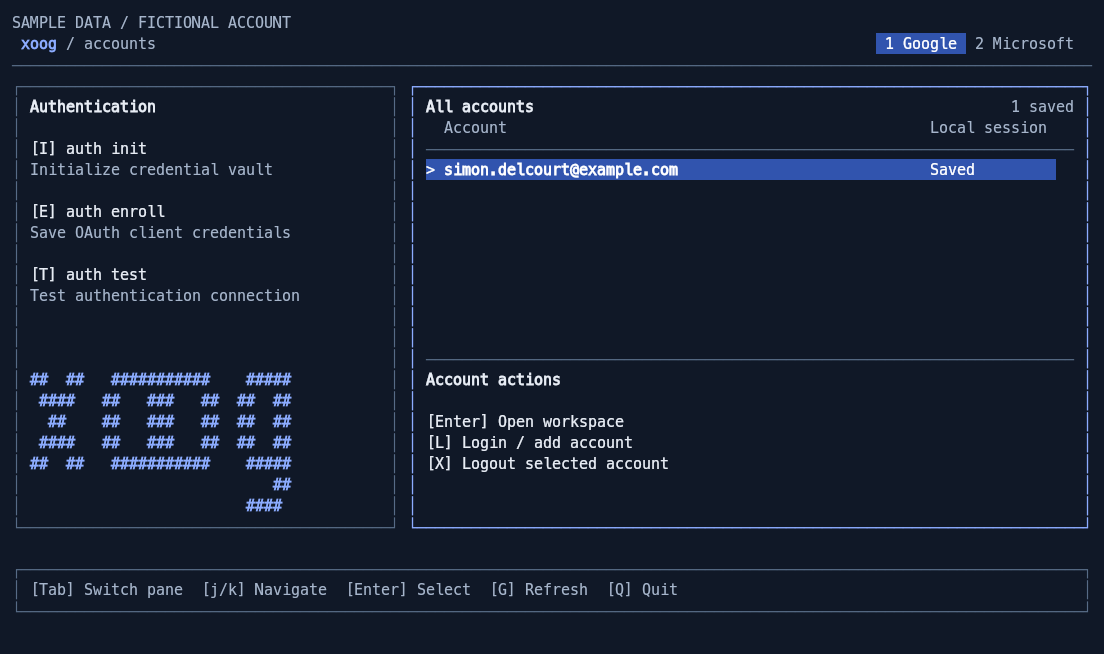
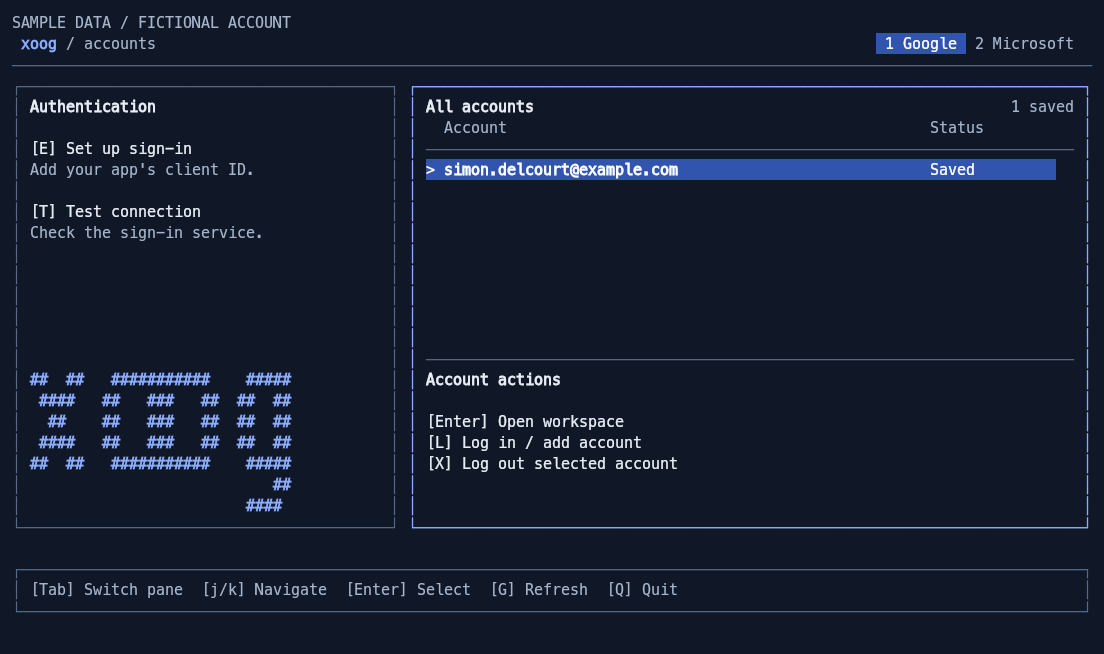
Move auth init in background

diff --git a/src/account-screen.tsx b/src/account-screen.tsx
@@ -87,10 +87,11 @@ export function AccountScreen({auth, size, onSelect, backends, onBackend}: {auth
     }
   }
   function runAuthentication(index: number) {
+    const action = authenticationActions[index];
+    if (!action) return;
     setPane('authentication'); setAuthenticationCursor(index); setError('');
-    if (index === 0) void perform('Initializing credential vault…', signal => auth.initialize(signal), 'Credential vault ready.', 'accounts');
-    if (index === 1) {setScreen('enroll'); setField(0); setClientId(''); setClientSecret(''); setNotice('');}
-    if (index === 2) void perform('Testing authentication connection…', signal => auth.test(signal), backend === 'joom' ? 'Microsoft OAuth endpoint reachable. App registration and sign-in were not verified.' : 'Google OAuth connection successful.', 'accounts');
+    if (action.id === 'enroll') {setScreen('enroll'); setField(0); setClientId(''); setClientSecret(''); setNotice('');}
+    if (action.id === 'test') void perform('Testing connection…', signal => auth.test(signal), 'Connection OK. Press L to log in.', 'accounts');
   }
   function openLogin() {setScreen('login'); setEmail(''); setError(''); setNotice('');}
   function beginLogout() {
@@ -109,7 +110,7 @@ export function AccountScreen({auth, size, onSelect, backends, onBackend}: {auth
       if (!clientId.trim() || info.secret && !clientSecret.trim()) {setError(info.secret ? 'Enter both the client ID and client secret.' : 'Enter the Application client ID.'); return;}
       const id = clientId.trim(), secret = clientSecret.trim();
       setClientSecret('');
-      void perform('Saving OAuth client credentials…', signal => auth.enroll(id, secret, signal), 'OAuth client saved. Press L to log in.', 'accounts');
+      void perform('Saving sign-in setup…', signal => auth.enroll(id, secret, signal), 'Sign-in setup saved. Press L to log in.', 'accounts');
     } else if (screen === 'logout') {
       void perform('Logging out…', signal => auth.logout(logoutAccount, signal), `Logged out ${logoutAccount}.`, 'accounts');
     }
@@ -149,9 +150,8 @@ export function AccountScreen({auth, size, onSelect, backends, onBackend}: {auth
       else setCursor(v => Math.max(0, Math.min(snapshot.accounts.length - 1, v + direction * (key.pageDown || key.pageUp ? accountHubLayout(columns, bodyHeight).pageSize : 1))));
       setError(''); return;
     }
-    if (shortcut === 'i') {runAuthentication(0); return;}
-    if (shortcut === 'e') {runAuthentication(1); return;}
-    if (shortcut === 't') {runAuthentication(2); return;}
+    if (shortcut === 'e') {runAuthentication(0); return;}
+    if (shortcut === 't') {runAuthentication(1); return;}
     if (shortcut === 'l') {openLogin(); return;}
     if (loading) return;
     if (shortcut === 'x') {beginLogout(); return;}
@@ -175,21 +175,21 @@ export function AccountScreen({auth, size, onSelect, backends, onBackend}: {auth
     <Box height={2} flexDirection="column"><Box height={1} paddingX={1}><Text bold color={color.accent}>xoog</Text><Text color={color.muted}> / accounts</Text><Box flexGrow={1}/>{backends?.map((id, index) => <Text key={id} color={id === backend ? color.selectedText : color.muted} backgroundColor={id === backend ? color.selection : undefined}>{` ${index + 1} ${backendInfo[id].provider} `}</Text>)}</Box><Text color={color.border}>{'─'.repeat(columns)}</Text></Box>
     {screen === 'accounts' && !busy && !error ? <AccountHub columns={columns} height={bodyHeight} accounts={snapshot.accounts} loading={loading} cursor={cursor}
       pane={pane} authenticationCursor={authenticationCursor} actionCursor={actionCursor}/> : <Box height={bodyHeight} borderStyle="single" borderColor={color.border} paddingX={2} flexDirection="column" overflow="hidden">
-      <Text bold color={color.text}>{screen === 'accounts' ? 'Authentication' : screen === 'login' ? `Log in to ${info.provider}` : screen === 'enroll' ? 'OAuth client credentials' : 'Log out of this account?'}</Text>
+      <Text bold color={color.text}>{screen === 'accounts' ? 'Authentication' : screen === 'login' ? `Log in to ${info.provider}` : screen === 'enroll' ? `Set up ${info.provider} sign-in` : 'Log out of this account?'}</Text>
       <Box marginTop={1} flexDirection="column" flexGrow={1} overflow="hidden">
         {busy ? <><Text bold color={color.accent}>{busy}</Text><Box marginTop={1}><Text color={color.muted}>{process.platform === 'darwin' && screen === 'login' && busy === `Starting ${info.provider} sign-in…` ? 'Check for a macOS Keychain approval prompt. Esc cancels.' : 'Esc cancels.'}</Text></Box></> : error ? <ScrollArea total={errorLines.length} visible={errorRows} offset={errorScroll} height={errorRows} active>
           <Text color={color.error}>{errorLines.slice(errorScroll, errorScroll + errorRows).join('\n')}</Text>
         </ScrollArea> : screen === 'login' ? <>
-          <Text color={color.muted}>{`Enter your ${info.provider} account email. ${info.name} opens your browser to authorize mail, calendar, tasks, contacts, and ${backend === 'joom' ? 'OneDrive' : 'Drive'}.`}</Text>
+          <Text color={color.muted}>{`Enter your ${info.provider} email. Press Enter to continue in your browser.`}</Text>
           <Box marginTop={1}><Text color={color.accent}>Email</Text></Box><Box height={2} overflow="hidden"><Input value={email} width={columns - 6} onChange={setEmail}/></Box>
-          <Text color={color.muted}>Need a client ID first? Esc, then E opens enrollment.</Text>
+          <Text color={color.muted}>First time? Press Esc, then E to set up sign-in.</Text>
         </> : screen === 'enroll' ? <>
-          <Text color={color.muted}>{info.secret ? 'Use OAuth credentials for a Desktop app from Google Cloud Console. Saving replaces the shared OAuth client.' : 'Use the Application client ID from Microsoft Entra. Register a mobile and desktop application with http://localhost/oauth/callback.'}</Text>
+          <Text color={color.muted}>{info.secret ? 'Google Cloud Console: create a Desktop app OAuth client. Copy its ID and secret.' : 'Copy the Application client ID from Microsoft Entra.'}</Text>
           <Box marginTop={1}><Text color={color.accent}>{field === 0 ? info.secret ? 'Client ID' : 'Application client ID' : 'Client secret'}{info.secret ? ` · ${field + 1}/2` : ''}</Text></Box>
           <Box height={2} overflow="hidden"><Input key={field} value={field === 0 ? clientId : clientSecret} width={columns - 6} masked={field === 1} onChange={field === 0 ? setClientId : setClientSecret}/></Box>
-          <Text color={color.muted}>{info.secret ? 'The client secret is masked and sent to Joog over stdin.' : 'Joom uses a public client with PKCE. Enter saves the client ID.'}</Text>
+          <Text color={color.muted}>{info.secret ? field === 0 ? 'Paste the client ID, then press Enter.' : 'Saving replaces the client for all Google accounts.' : 'Register http://localhost/oauth/callback as a Mobile and desktop redirect URI.'}</Text>
         </> : <>
-          <Text bold color={color.text}>{logoutAccount}</Text><Box marginTop={1}><Text color={color.muted}>{`This removes the account's local ${info.name} tokens. ${info.provider} permissions remain until you revoke them in your account settings.`}</Text></Box>
+          <Text bold color={color.text}>{logoutAccount}</Text><Box marginTop={1}><Text color={color.muted}>You will need to log in again to use this account in Xoog.</Text></Box>
         </>}
       </Box>
       <Text>{' '}</Text>

diff --git a/src/account-hub.tsx b/src/account-hub.tsx
@@ -14,14 +14,13 @@ import {cellWordmark, cellWordmarkWidth, cellWordmarkHeight} from './brand.js';
 
 export type AccountPane = 'authentication' | 'accounts' | 'actions';
 export const authenticationActions = [
-  {id: 'init', key: 'I', label: 'auth init', description: 'Initialize credential vault'},
-  {id: 'enroll', key: 'E', label: 'auth enroll', description: 'Save OAuth client credentials'},
-  {id: 'test', key: 'T', label: 'auth test', description: 'Test authentication connection'},
+  {id: 'enroll', key: 'E', label: 'Set up sign-in', description: 'Add your app\'s client ID.'},
+  {id: 'test', key: 'T', label: 'Test connection', description: 'Check the sign-in service.'},
 ] as const;
 export const accountActions = [
   {id: 'open', key: 'Enter', label: 'Open workspace'},
-  {id: 'login', key: 'L', label: 'Login / add account'},
-  {id: 'logout', key: 'X', label: 'Logout selected account'},
+  {id: 'login', key: 'L', label: 'Log in / add account'},
+  {id: 'logout', key: 'X', label: 'Log out selected account'},
 ] as const;
 
 export function accountHubLayout(columns: number, height: number) {
@@ -49,7 +48,7 @@ export function AccountHub({columns, height, accounts, loading, cursor, pane, au
       marginRight={layout.wide ? 1 : 0} borderStyle="single" borderColor={pane === 'authentication' ? color.accent : color.border} paddingX={1} flexDirection="column" overflow="hidden">
       <Text bold color={color.text}>Authentication</Text>
       <Box marginTop={layout.wide ? 1 : 0} flexDirection={layout.wide ? 'column' : 'row'}>
-        {authenticationActions.map((action, index) => <Box key={action.id} flexDirection="column" marginBottom={layout.wide ? 1 : 0} marginRight={layout.wide || index === 2 ? 0 : 1} flexShrink={0}>
+        {authenticationActions.map((action, index) => <Box key={action.id} flexDirection="column" marginBottom={layout.wide ? 1 : 0} marginRight={layout.wide || index === authenticationActions.length - 1 ? 0 : 1} flexShrink={0}>
           <Text bold={pane === 'authentication' && authenticationCursor === index} color={pane === 'authentication' && authenticationCursor === index ? color.selectedText : color.text}
             backgroundColor={pane === 'authentication' && authenticationCursor === index ? color.selection : undefined}>[{action.key}] {action.label}</Text>
           {layout.wide && <Text color={color.muted} wrap="truncate">{action.description}</Text>}
@@ -61,11 +60,11 @@ export function AccountHub({columns, height, accounts, loading, cursor, pane, au
       borderColor={pane === 'accounts' || pane === 'actions' ? color.accent : color.border} paddingX={1} flexDirection="column" overflow="hidden">
       <Box height={1} flexShrink={0}><Text bold color={color.text}>All accounts</Text><Box flexGrow={1}/><Text color={color.muted}>{loading ? 'Loading…' : `${accounts.length} saved`}</Text></Box>
       {layout.tableRows > 0 && <Box height={2} flexShrink={0} flexDirection="column">
-        <Box><Text color={color.muted}>{'  '}Account</Text><Box flexGrow={1}/><Box width={statusWidth}><Text color={color.muted}>{statusWidth === 14 ? 'Local session' : 'Session'}</Text></Box><Box width={2}/></Box>
+        <Box><Text color={color.muted}>{'  '}Account</Text><Box flexGrow={1}/><Box width={statusWidth}><Text color={color.muted}>Status</Text></Box><Box width={2}/></Box>
         <Text color={color.border}>{rule}</Text>
       </Box>}
       <ScrollArea total={loading ? 0 : accounts.length} visible={layout.pageSize} offset={offset} height={layout.pageSize} active={pane === 'accounts'}>
-        {loading ? <Text color={color.muted}>Loading saved accounts…</Text> : !accounts.length ? <Text color={color.muted}>No saved accounts. Press L to log in.</Text> : accounts.slice(offset, offset + layout.pageSize).map((account, index) => {
+        {loading ? <Text color={color.muted}>Loading saved accounts…</Text> : !accounts.length ? <Text color={color.muted}>No saved accounts. E setup · L log in.</Text> : accounts.slice(offset, offset + layout.pageSize).map((account, index) => {
           const selected = index + offset === cursor;
           return <Box key={account} height={1} flexShrink={0} backgroundColor={selected ? color.selection : undefined}>
             <Text color={selected ? color.selectedText : color.text}>{selected ? '> ' : '  '}</Text>

diff --git a/test/account-screen.test.tsx b/test/account-screen.test.tsx
@@ -29,16 +29,15 @@ test('login returns a selected account and logout requires confirmation', async 
   await press(app, 'x'); await press(app, '\r');
   assert.ok(!(await auth.list()).accounts.includes('new@example.com')); assert.match(app.lastFrame()!, /Logged out/);
 });
-test('authentication setup initializes, masks credentials, enrolls, and tests the connection', async () => {
+test('sign-in setup masks credentials, enrolls directly, and tests the connection', async () => {
   class Auth extends FakeAccounts {
-    initialized = false; credentials: string[] = []; tested = false;
-    override async initialize() {this.initialized = true;}
+    credentials: string[] = []; tested = false;
     override async enroll(clientId: string, clientSecret: string) {this.credentials = [clientId, clientSecret];}
     override async test() {this.tested = true;}
   }
   const auth = new Auth();
   const app = render(<AccountScreen auth={auth} onSelect={() => {}} size={size}/>);
-  await until(app, /test@example.com/); await press(app, 'I'); assert.equal(auth.initialized, true);
+  await until(app, /test@example.com/); assert.doesNotMatch(app.lastFrame()!, /\[I\]|auth init/);
   await press(app, 'E'); await press(app, 'desktop-client'); await press(app, '\t'); await press(app, 'super-secret');
   assert.doesNotMatch(app.lastFrame()!, /super-secret/); assert.match(app.lastFrame()!, /\*{12}/);
   await press(app, '\r'); assert.deepEqual(auth.credentials.slice(0, 2), ['desktop-client', 'super-secret']);
@@ -75,11 +74,11 @@ test('login waits for the binary to confirm browser launch and shows complete er
   await press(app, '\x1b'); assert.match(app.lastFrame()!, /Cancelled/);
 });
 test('Tab and Enter navigate Authentication, All accounts, and Account actions', async () => {
-  class Auth extends FakeAccounts {initialized = false; override async initialize() {this.initialized = true;}}
-  const auth = new Auth(); let selected = '';
+  const auth = new FakeAccounts(); let selected = '';
   const app = render(<AccountScreen auth={auth} onSelect={value => selected = value} size={size}/>);
   await until(app, /test@example.com/);
-  await press(app, '\x1b[Z'); await press(app, '\r'); assert.equal(auth.initialized, true);
+  await press(app, '\x1b[Z'); await press(app, '\r'); assert.match(app.lastFrame()!, /Set up Google sign-in/);
+  await press(app, '\x1b');
   await press(app, '\t'); await press(app, '\t'); await press(app, 'j'); await press(app, '\r');
   assert.match(app.lastFrame()!, /Log in to Google/);
   await press(app, '\x1b'); await press(app, 'j'); await press(app, '\r');
@@ -92,7 +91,7 @@ test('global authentication actions and refresh preserve the selected account', 
   let selected = '';
   const app = render(<AccountScreen auth={new Auth()} onSelect={value => selected = value} size={size}/>);
   await until(app, /personal@example.com/); await press(app, 'j'); await press(app, 'T');
-  await until(app, /connection successful/); await press(app, 'G'); await until(app, /Accounts refreshed/);
+  await until(app, /Connection OK/); await press(app, 'G'); await until(app, /Accounts refreshed/);
   await press(app, '\t'); await press(app, '\r');
   assert.equal(selected, 'personal@example.com');
 });

diff --git a/test/accounts.test.ts b/test/accounts.test.ts
@@ -56,12 +56,12 @@ let input=''; process.stdin.on('data', s => input += s); process.stdin.on('end',
  console.log(JSON.stringify(args.includes('login') ? {account:args[args.indexOf('auth')+1]} : {}));
 });`, {mode: 0o700});
   const auth = new CliAccounts({binary, home: directory});
-  await auth.initialize(); await auth.enroll('desktop-client', 'private-client-secret'); await auth.test();
+  await auth.enroll('desktop-client', 'private-client-secret'); await auth.test();
   assert.equal(await auth.login('me@example.com'), 'me@example.com');
   await auth.logout('me@example.com');
   const calls = (await readFile(log, 'utf8')).trim().split('\n').map(s => JSON.parse(s));
-  assert.deepEqual(calls.map(c => c.args.slice(c.args.indexOf('auth') + 1)), [['init'], ['enroll','--stdin'], ['test'], ['me@example.com','login','mail,calendar,tasks,contacts,drive'], ['me@example.com','logout']]);
-  assert.deepEqual(JSON.parse(calls[1].input), {client_id: 'desktop-client', client_secret: 'private-client-secret'});
+  assert.deepEqual(calls.map(c => c.args.slice(c.args.indexOf('auth') + 1)), [['enroll','--stdin'], ['test'], ['me@example.com','login','mail,calendar,tasks,contacts,drive'], ['me@example.com','logout']]);
+  assert.deepEqual(JSON.parse(calls[0].input), {client_id: 'desktop-client', client_secret: 'private-client-secret'});
   assert.ok(calls.every(c => !c.args.join(' ').includes('private-client-secret') && c.args.includes(directory)));
   await assert.rejects(auth.login('fail@example.com'), /^Error: Google denied sign-in\.$/);
   await assert.rejects(auth.login('keychain@example.com'), /does not require enrolling/);

diff --git a/test/joom.test.ts b/test/joom.test.ts
@@ -80,10 +80,10 @@ test('Joom writes, MIME replies, attachments, and original OneDrive downloads av
   await assert.rejects(client.people('other'), /Contacts collection/);
   await assert.rejects(client.files('shared', undefined, ''), /OneDrive folders/);
 });
-test('Microsoft account commands list, initialize, enroll only the client ID, test, login, and logout through Joom', {skip: process.platform === 'win32'}, async t => {
+test('Microsoft account commands list, enroll only the client ID, test, login, and logout through Joom', {skip: process.platform === 'win32'}, async t => {
   const {auth, calls} = await fixture(t);
   assert.deepEqual(await auth.list(), {accounts: ['simon.delcourt@example.com']});
-  await auth.initialize(); await auth.enroll('application-id', 'must-not-be-sent'); await auth.test();
+  await auth.enroll('application-id', 'must-not-be-sent'); await auth.test();
   const stages: string[] = [];
   assert.equal(await auth.login('simon.delcourt@example.com', undefined, stage => stages.push(stage)), 'simon.delcourt@example.com');
   await auth.logout('simon.delcourt@example.com');

diff --git a/src/accounts.ts b/src/accounts.ts
@@ -9,7 +9,6 @@ export type LoginProgress = (stage: 'browser-opened') => void;
 export interface AccountManager {
   readonly backend?: BackendId;
   list(signal?: AbortSignal): Promise<AccountList>;
-  initialize(signal?: AbortSignal): Promise<void>;
   enroll(clientId: string, clientSecret: string, signal?: AbortSignal): Promise<void>;
   test(signal?: AbortSignal): Promise<void>;
   login(email: string, signal?: AbortSignal, progress?: LoginProgress): Promise<string>;
@@ -56,7 +55,6 @@ export class CliAccounts implements AccountManager {
       child.stdin?.end(input ?? '');
     });
   }
-  async initialize(signal?: AbortSignal) {await this.run(['init'], signal);}
   async enroll(clientId: string, clientSecret: string, signal?: AbortSignal) {await this.run(['enroll', '--stdin'], signal, JSON.stringify({client_id: clientId, ...(backendInfo[this.backend].secret ? {client_secret: clientSecret} : {})}));}
   async test(signal?: AbortSignal) {await this.run(['test'], signal);}
   async login(email: string, signal?: AbortSignal, progress?: LoginProgress) {

diff --git a/test/providers.test.tsx b/test/providers.test.tsx
@@ -38,7 +38,7 @@ test('Microsoft enrollment saves one client ID without asking for a secret', asy
   const app = render(<AccountScreen auth={auth} onSelect={() => {}} size={{columns: 52, rows: 18}}/>);
   await until(app, /test@example.com/); await press(app, 'E'); await until(app, /Application client ID/);
   assert.doesNotMatch(app.lastFrame()!, /Client secret|Google Cloud/);
-  await press(app, 'app-registration-id'); await press(app, '\r'); await until(app, /OAuth client saved/);
+  await press(app, 'app-registration-id'); await press(app, '\r'); await until(app, /Sign-in setup saved/);
   assert.deepEqual(auth.credentials, ['app-registration-id', '']);
   assert.ok(app.lastFrame()!.split('\n').length <= 18);
 });

diff --git a/scripts/screenshot-preview.tsx b/scripts/screenshot-preview.tsx
@@ -26,7 +26,7 @@ const date = (offset: number, hour: number, minute = 0) => {
 };
 const readOnly = async (): Promise<never> => {throw new Error('Screenshot data is read-only.');};
 const auth: AccountManager = {list: async () => ({accounts: [account], defaultAccount: account}),
-  initialize: readOnly, enroll: readOnly, test: readOnly, login: readOnly, logout: readOnly};
+  enroll: readOnly, test: readOnly, login: readOnly, logout: readOnly};
 
 function createWorkspace(backend: BackendId): Workspace {
   const mail = Object.entries(messages).map(([id, content], index) => ({

diff --git a/src/cli.tsx b/src/cli.tsx
@@ -30,8 +30,8 @@ Usage: xoog [options]
   --help, -h          Show help
   --version, -v       Show version
 
-The first screen manages accounts. I initializes the vault, E enrolls a client,
-T tests authentication, L logs in, and X logs out the selected account.
+The first screen manages accounts. E sets up sign-in, T tests the connection,
+L logs in, and X logs out the selected account.
 Press 1 for Google or 2 for Microsoft on the account screen.
 Press A in the workspace to return to accounts.
 

diff --git a/test/support/accounts.ts b/test/support/accounts.ts
@@ -3,7 +3,6 @@ import type {AccountManager} from '../../src/accounts.js';
 export class FakeAccounts implements AccountManager {
   private accounts = ['test@example.com'];
   async list() {return {accounts: [...this.accounts], defaultAccount: this.accounts[0]};}
-  async initialize() {}
   async enroll() {}
   async test() {}
   async login(email: string) {const account = email.toLowerCase(); if (!this.accounts.includes(account)) this.accounts.push(account); return account;}

diff --git a/docs/architecture.md b/docs/architecture.md
@@ -53,7 +53,6 @@ the selection changes.
 | Workflow | Joog command |
 | --- | --- |
 | List accounts | `auth list` |
-| Initialize vault | `auth init` |
 | Enroll OAuth client | `auth enroll --stdin` |
 | Check OAuth connectivity | `auth test` |
 | Login and logout | `auth ACCOUNT login mail,calendar,tasks,contacts,drive`, `auth ACCOUNT logout` |
@@ -88,13 +87,13 @@ before another account can open.
 
 `src/account-hub.tsx` renders the approved account hub. At 90 columns or more,
 Authentication occupies 36% of the width on the left. The right pane contains
-only saved accounts, followed by Account actions. At smaller widths, the three
+only saved accounts, followed by Account actions. At smaller widths, the two
 authentication shortcuts sit in a compact row above the accounts and actions.
 There is no setup submenu or repeated selected-account summary.
 
 The controller keeps independent cursors for Authentication, accounts, and
 Account actions. Tab changes focus and Enter activates the focused choice.
-Direct I/E/T/L/X shortcuts work from the hub. Global authentication actions and
+Direct E/T/L/X shortcuts work from the hub. Global authentication actions and
 refresh preserve the selected account. Login selects its returned account;
 logout chooses an adjacent remaining account. Account rows and their scrollbars
 use the available height after reserving the always-visible action controls.
@@ -106,9 +105,10 @@ and preserves their order. The first account is initially selected. Login and
 logout refresh the list through the same command. `--home PATH` is forwarded
 to Joog. Xoog does not read Joog's configuration files or search state directories.
 Account discovery shares authentication subprocess error handling and cancellation.
-Vault initialization, OAuth enrollment, and connectivity checks also use the
-binary. Client credentials travel over stdin and are excluded from process
-arguments and temporary files. Credential enrollment errors use a generic
+OAuth enrollment and connectivity checks also use the binary. Joog and Joom
+initialize their credential storage automatically during enrollment; Xoog has
+no separate initialization action. Client credentials travel over stdin and are
+excluded from process arguments and temporary files. Credential enrollment errors use a generic
 message to avoid echoing input. The UI masks and clears the client secret.
 
 Authentication subprocesses time out after 40 seconds, except login, which gets

diff --git a/docs/authentication.md b/docs/authentication.md
@@ -17,18 +17,17 @@ for Google setup and platform credential-store requirements.
 
 ## Set up authentication in Xoog
 
-1. Press `I` for **auth init** to initialize the local credential vault.
-2. Press `E` for **auth enroll**. Enter the client ID, press `Tab`, enter the
+1. Press `E` for **Set up sign-in**. Enter the client ID, press `Tab`, enter the
    client secret, then press `Enter` to save. The secret is masked.
-3. Press `T` for **auth test** to check the enrolled OAuth client.
-4. Press `L` for **Login / add account**, enter your Google account email, and
+2. Press `T` for **Test connection** to check the enrolled OAuth client.
+3. Press `L` for **Log in / add account**, enter your Google account email, and
    press `Enter`.
-5. Complete sign-in in the browser and approve the requested permissions for
+4. Complete sign-in in the browser and approve the requested permissions for
    mail, calendar, tasks, contacts, and Drive. Return to Xoog and press `Enter` to open the account.
 
 If Joog already has an enrolled client and saved accounts, select an account and
-press `Enter`. Initialization and enrollment are setup actions, not requirements
-on every launch. Xoog obtains the accounts by running `joog --json auth list`.
+press `Enter`. You only need setup when adding or changing your OAuth client.
+Xoog obtains the accounts by running `joog --json auth list`.
 `--home PATH` is forwarded to that command when you use a custom state directory.
 
 `Tab` moves between Authentication, All accounts, and Account actions. Use `j/k`
@@ -77,7 +76,7 @@ Each provider lists its accounts through its binary's `auth list` command.
 Start with `npm start -- --backend joom`, or pass `--joom PATH` for a custom binary.
 Account selection stays inside Xoog.
 
-Use `I` to initialize Joom's vault, then `E` to enter the Microsoft Application
+Press `E` for **Set up sign-in** and enter the Microsoft Application
 client ID. Register a mobile and desktop app in Microsoft Entra with the loopback
 callback `http://localhost/oauth/callback`. Configure supported account types to
 match the accounts you intend to use. No client secret is requested or sent.
